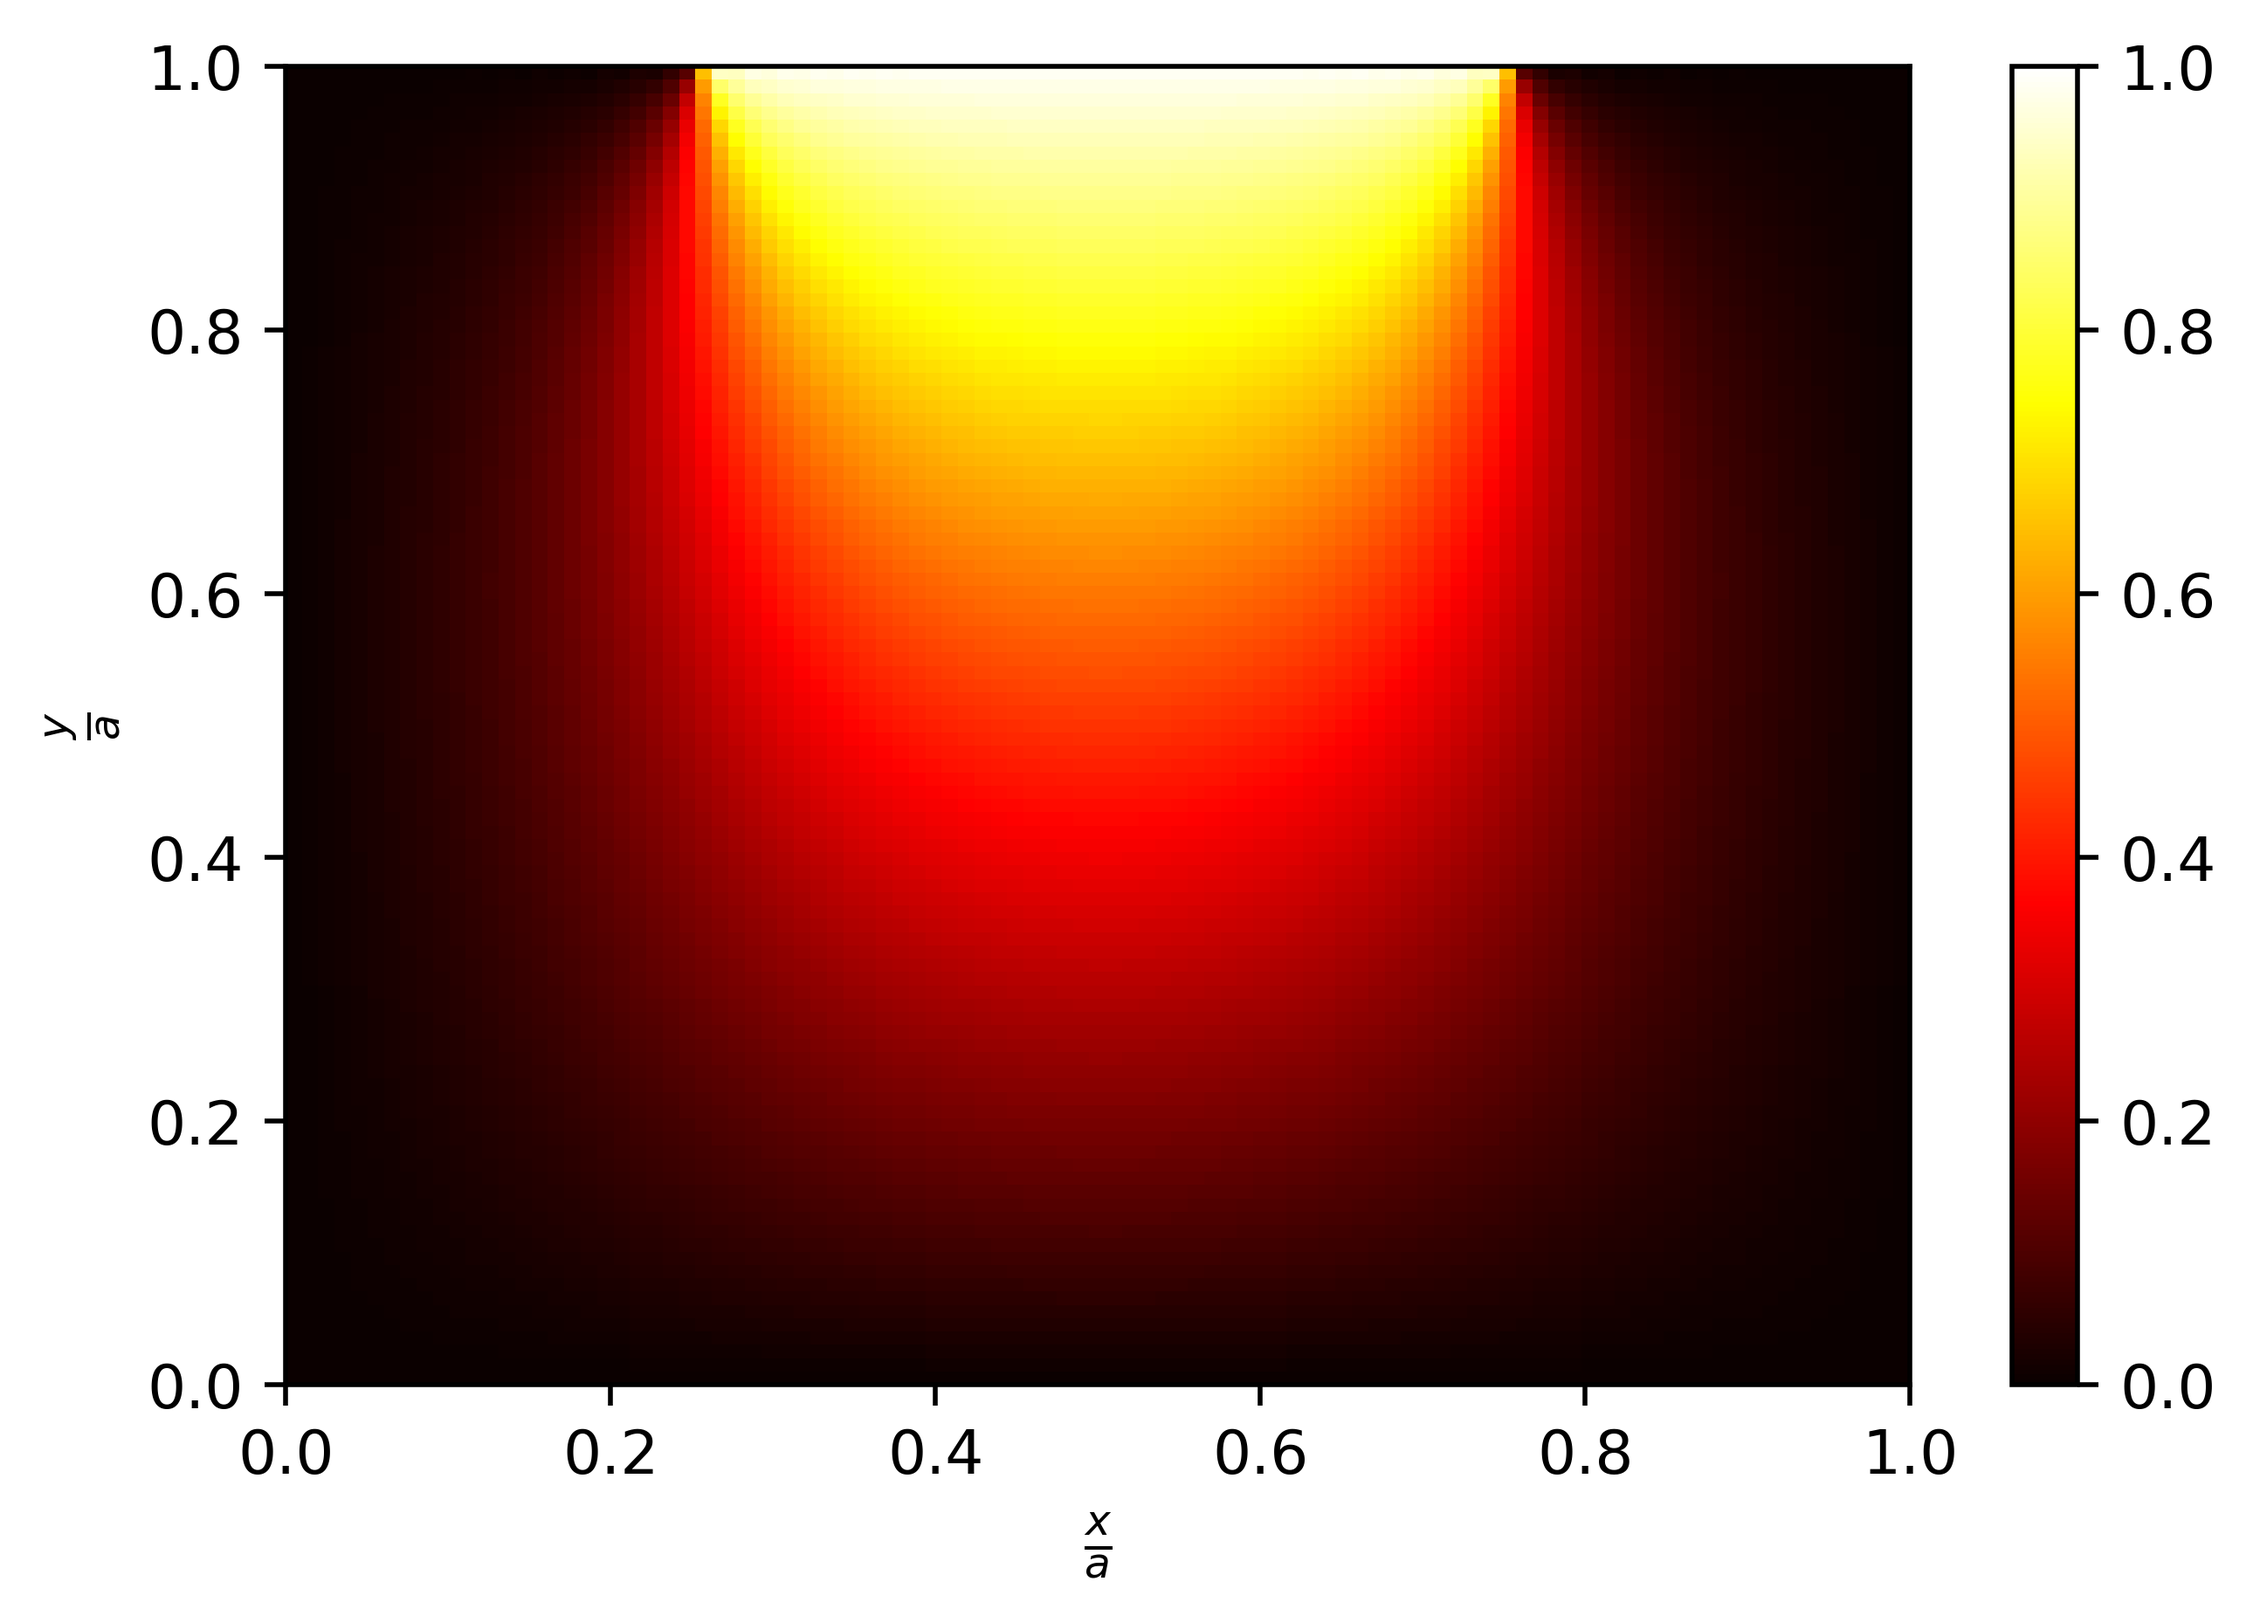
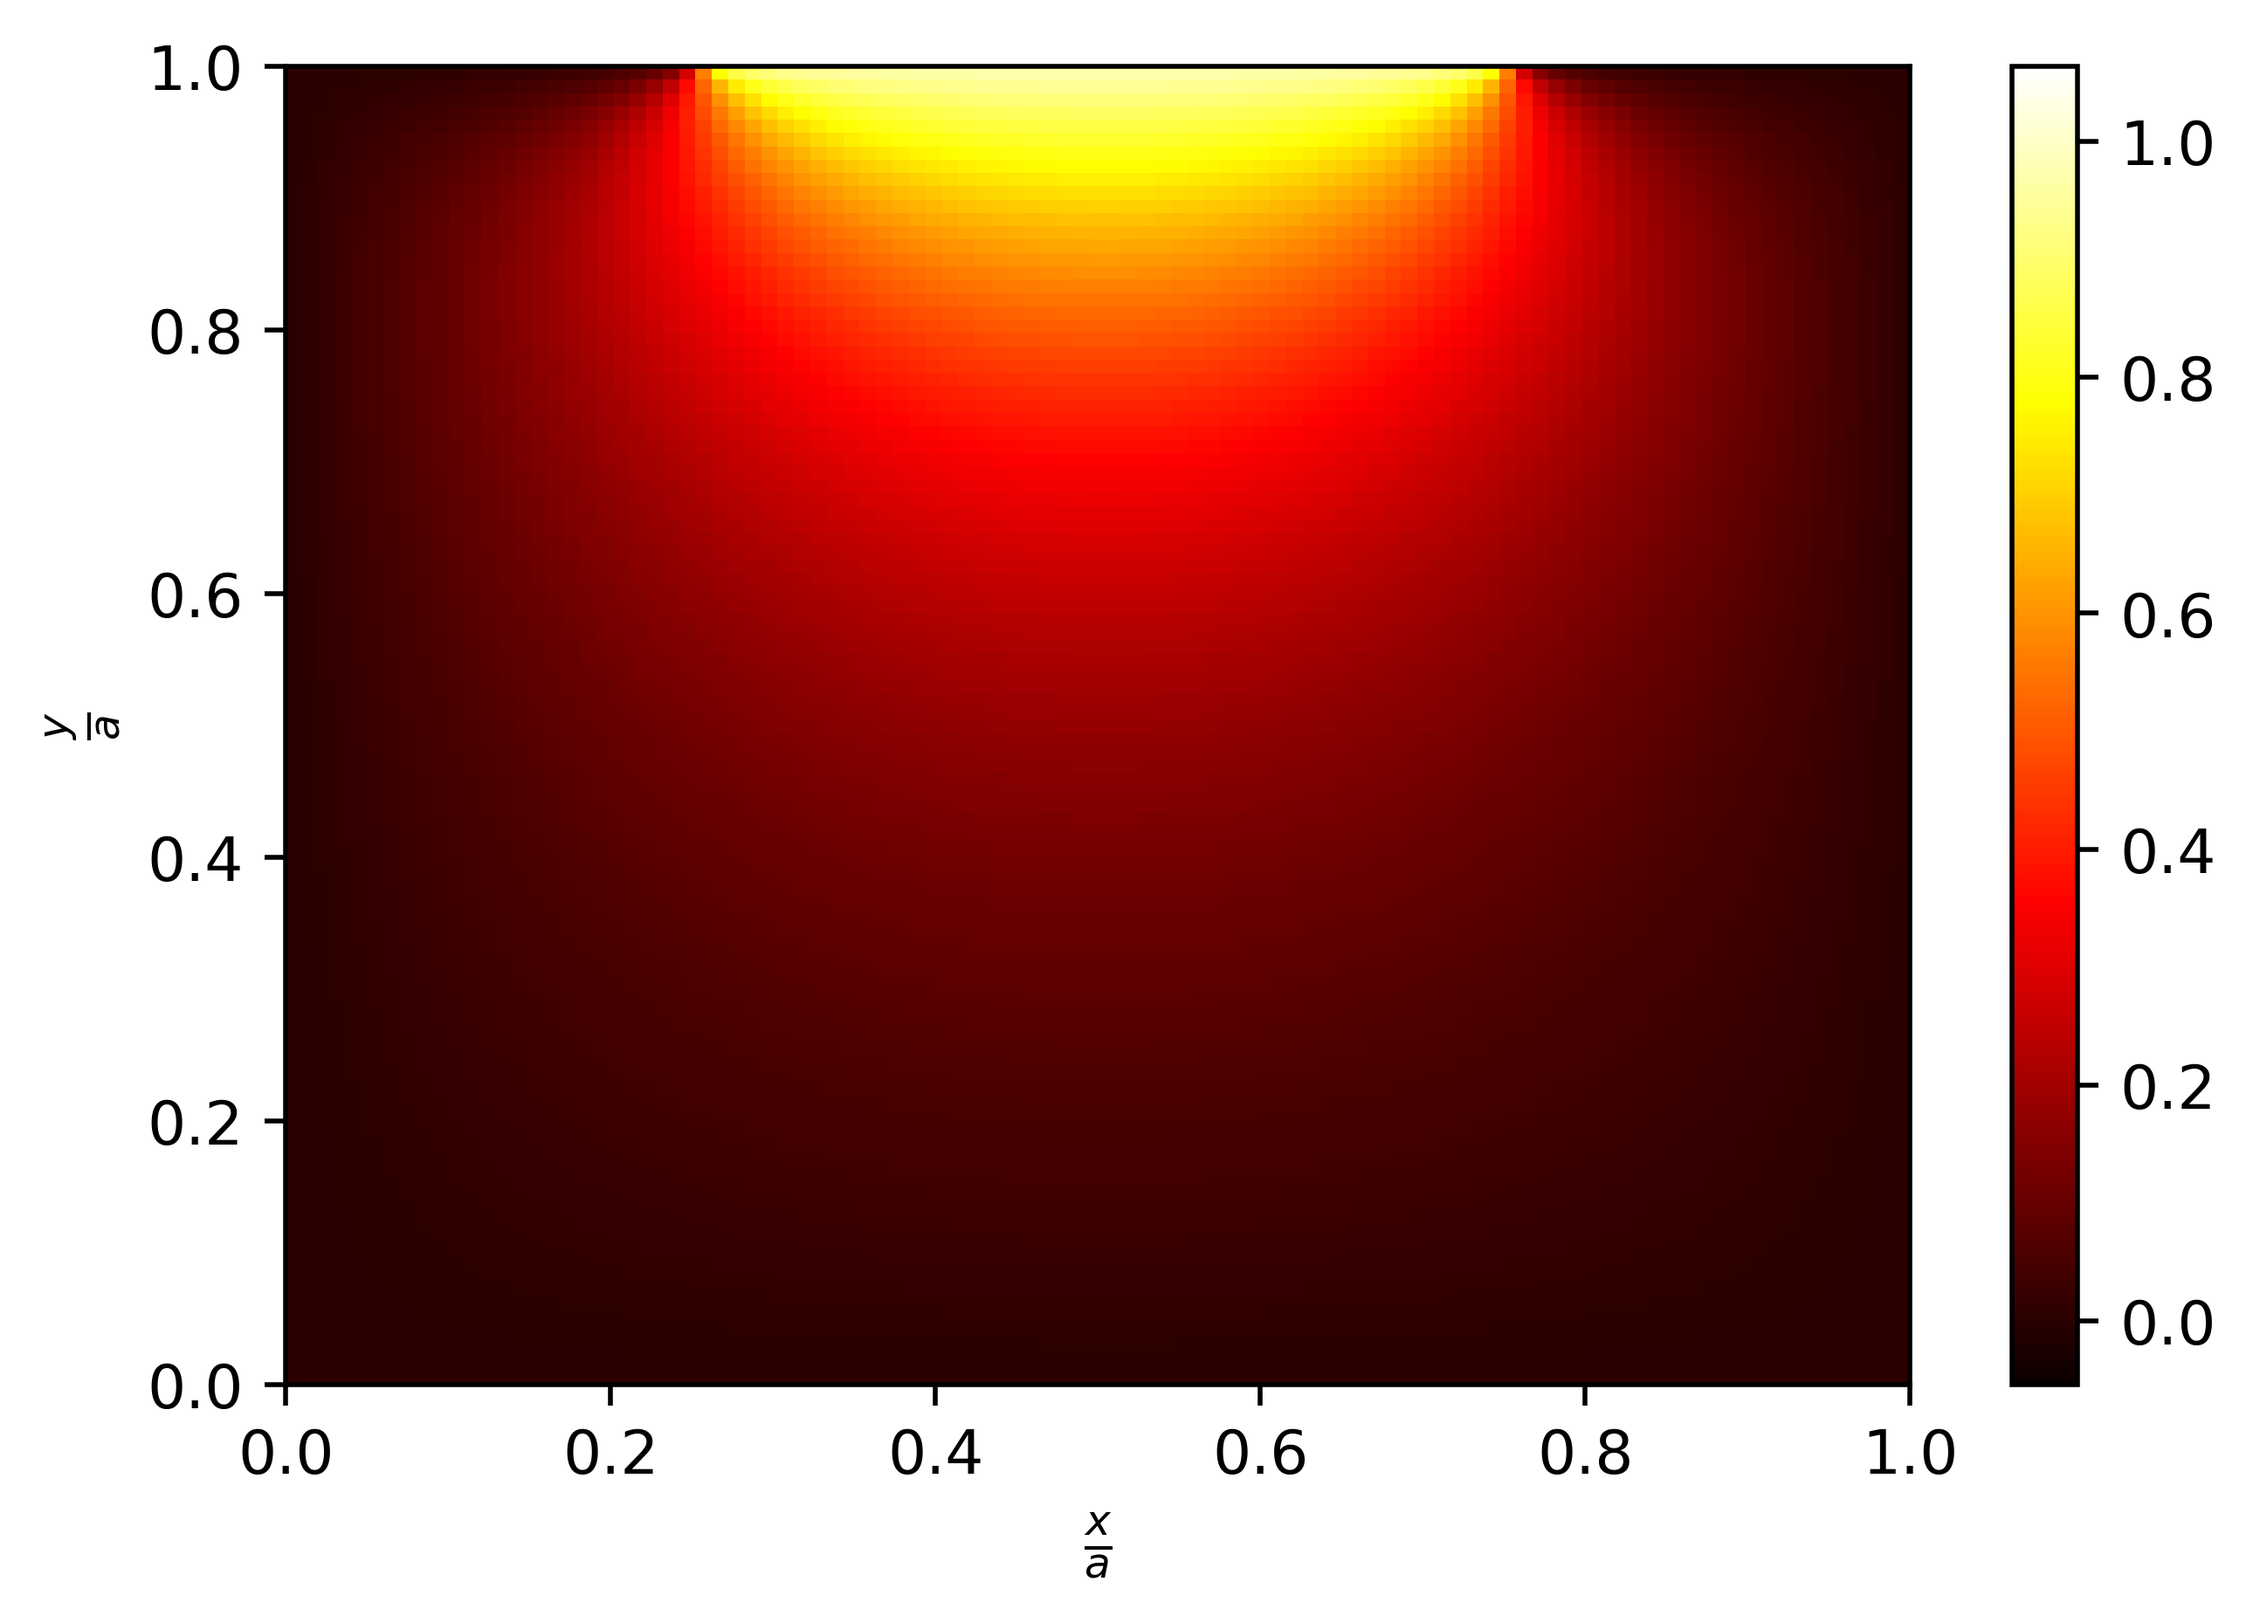
Update site

diff --git a/writeups/phys_laplacemc.html b/writeups/phys_laplacemc.html
@@ -26,17 +26,17 @@
 
 <p><code>f'' / f = -g'' / g</code></p>
 
-<p>which must equal a constant. Since the boundary conditions in <code>x</code> are homogeneous, we take <code>f'' / f = -K^2</code> so that <code>f = sin (K pi x)</code>. Our solution becomes</p>
+<p>which must equal a constant. Since the boundary conditions in <code>x</code> are homogeneous, we take <code>f'' / f = -K^2</code> so that <code>f = sin (k pi x)</code>, and <code>K = k pi</code>. Our solution becomes</p>
 
-<p><code>t = sum_K C_K g (y) sin (K pi x)</code></p>
+<p><code>t = sum_K C_K g (y) sin (k pi x)</code></p>
 
 <p>This means that</p>
 
 <p><code>g'' - K^2 g = 0</code></p>
 
-<p>subject to <code>g (0) = 0</code> and <code>g (1) = C_K</code>, which is solved by <code>g (y) = C_K sinh (K y) / sinh (K)</code>. Here, <code>C_K</code> denotes the projection of the boundary condition at the top edge onto the basis function <code>sin (K pi x)</code>. We can calculate it by simple integration. The final result is</p>
+<p>subject to <code>g (0) = 0</code> and <code>g (1) = C_K</code>, which is solved by <code>g (y) = C_K sinh (k pi y) / sinh (k pi)</code>. Here, <code>C_K</code> denotes the projection of the boundary condition at the top edge onto the basis function <code>sin (k pi x)</code>. We can calculate it by simple integration. The final result is</p>
 
-<p><code>t (x, y) = sum_{k odd} S_k ((2 sqrt(2)) / pi) * (sinh (k y) / (k * sinh (k))) * sin (k pi x)</code></p>
+<p><code>t (x, y) = sum_{k odd} S_k ((2 sqrt(2)) / pi) * (sinh (k pi y) / (k * sinh (k pi))) * sin (k pi x)</code></p>
 
 <p>where <code>S_k = 1</code> if <code>k = 1 (mod 8)</code> or <code>k = 7 (mod 8)</code>, and <code>S_k = -1</code> if <code>k = 3 (mod 8)</code> or <code>k = 5 (mod 8)</code>.</p>
 
